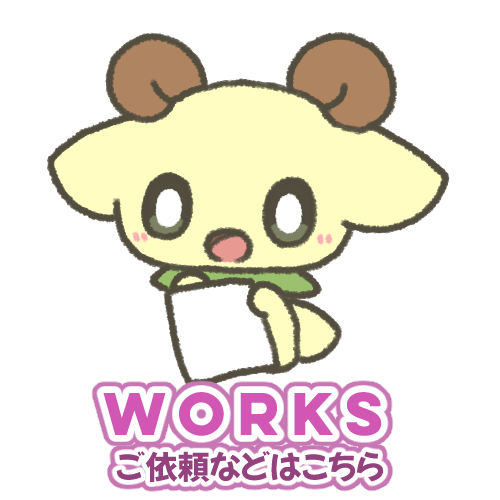
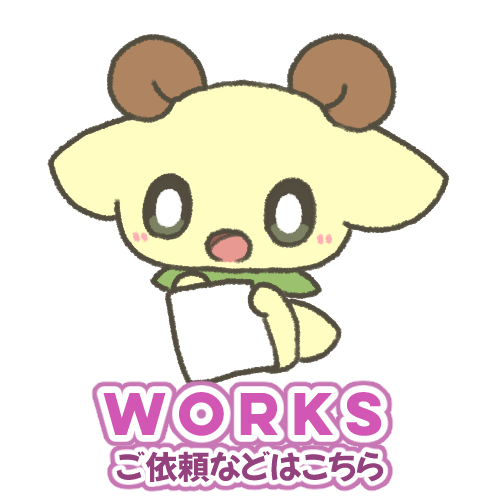
WORKSのボタンの線の太さを細くした

diff --git a/src/routes/Home.tsx b/src/routes/Home.tsx
@@ -58,7 +58,7 @@ export default function Home() {
                 src="/static/images/webp/button_works_default.webp"
                 hoverSrc="/static/images/webp/button_works_hover.webp"
                 alt="WORKS"
-                v="3"
+                v="2-2"
               />
             </Link>
           </li>
